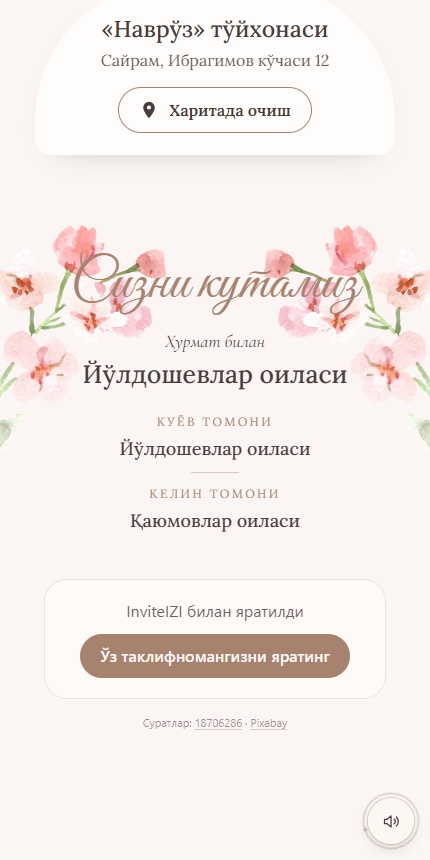
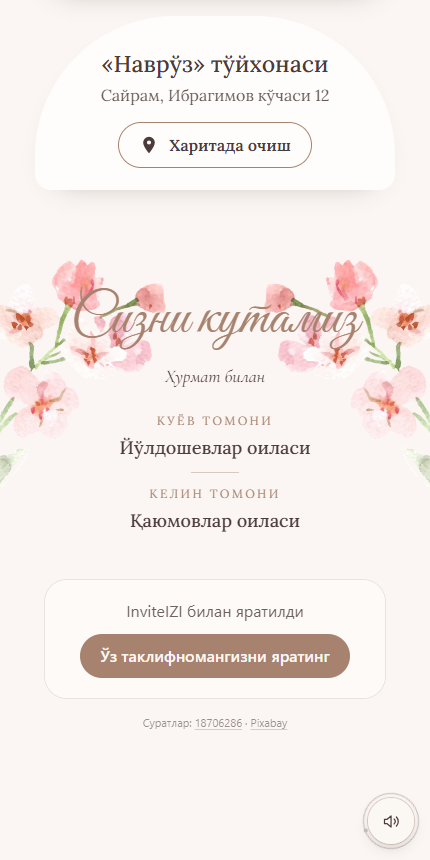
«Гулли рамка»: правки по критику — направление цветов, шторка-кнопка, крупный юбилей, без повтора фамилий

Changed region(s): [[0.0, 0.2419, 1.0, 0.5744], [0.2419, 0.0, 0.786, 0.2116], [0.2721, 0.4837, 0.7256, 0.5442]]

diff --git a/templates/themes/floral/kit.tsx b/templates/themes/floral/kit.tsx
@@ -123,9 +123,10 @@ export function GirihStar({ className }: { className?: string }) {
 }
 
 /** Монограмма «Б | Д» */
-export function Monogram({ a, b, className }: { a: string; b?: string; className?: string }) {
+export function Monogram({ a, b, className, inline = false }: { a: string; b?: string; className?: string; /** внутри кнопки — span вместо p */ inline?: boolean }) {
+  const Tag = inline ? "span" : "p";
   return (
-    <p className={cx(f.mono, className)} aria-hidden>
+    <Tag className={cx(f.mono, className)} aria-hidden>
       <span>{a}</span>
       {b && (
         <>
@@ -133,7 +134,7 @@ export function Monogram({ a, b, className }: { a: string; b?: string; className
           <span>{b}</span>
         </>
       )}
-    </p>
+    </Tag>
   );
 }
 
@@ -174,7 +175,7 @@ export function CardText({ data, inv, className, monogram = true }: { data: Invi
 function WavyProgram({ inv, look }: { inv: Invitation; look: Look }) {
   const list = inv.program;
   return (
-    <ol className={cx(f.wave, look.wave)} data-count={list.length}>
+    <div className={cx(f.wave, look.wave)} data-count={list.length}>
       {list.length > 1 && (
         <svg viewBox="0 0 40 400" preserveAspectRatio="none" className={f.waveLine} aria-hidden data-decor>
           <path d="M20 0C38 50 2 100 20 150s-18 100 0 150 18 70 0 100" fill="none" stroke="currentColor" vectorEffect="non-scaling-stroke" />
@@ -189,7 +190,7 @@ function WavyProgram({ inv, look }: { inv: Invitation; look: Look }) {
           <p className={f.waveMeta}>{e.venueName}</p>
         </Rise>
       ))}
-    </ol>
+    </div>
   );
 }
 
@@ -207,6 +208,8 @@ export type FloralConfig = {
   assets: FloralAsset[];
   look: Look;
   heart?: boolean;
+  /** Шрифт заголовков блоков вместо прописи (юбилей — прямой, читаемый) */
+  titleFont?: string;
   /** Первая композиция: цветы + карточка. on — пора выплывать */
   hero: (on: boolean, inv: Invitation) => ReactNode;
   /** Цветы финала «Сизни кутамиз» */
@@ -239,6 +242,7 @@ export function FloralInvitation({ data, mode, cfg }: { data: InvitationData; mo
   const start = () => {
     if (!inv.started) inv.start();
   };
+  const titleStyle = cfg.titleFont ? { fontFamily: cfg.titleFont } : undefined;
   const on = cfg.opening === "none" ? mounted : inv.started;
   const w = inv.main.when;
   const places = venues(inv);
@@ -260,9 +264,12 @@ export function FloralInvitation({ data, mode, cfg }: { data: InvitationData; mo
         <footer className={cx(f.finale, look.finale)} data-on={on}>
           {cfg.finale}
           <Rise stagger className={f.finaleText}>
-            <Script text={t.floral.wait} className={cx(f.finaleScript, look.finaleScript)} />
+            <Script text={t.floral.wait} className={cx(f.finaleScript, look.finaleScript)} style={titleStyle} />
             <p className={f.finaleLead}>{t.hosts.respect}</p>
-            <p className={cx(f.finaleHosts, look.finaleHosts)}>{data.hosts}</p>
+            {/* хозяева = одна из сторон → не повторяем фамилию дважды */}
+            {!(inv.sides && [inv.sides.groom, inv.sides.bride].includes(data.hosts ?? "")) && (
+              <p className={cx(f.finaleHosts, look.finaleHosts)}>{data.hosts}</p>
+            )}
             {inv.sides && (
               <div className={f.sides}>
                 <div>
@@ -290,7 +297,7 @@ export function FloralInvitation({ data, mode, cfg }: { data: InvitationData; mo
       </Rise>
 
       <section className={cx(f.section, look.dateSec)}>
-        <Script text={t.natural.date} className={cx(f.title, look.title)} />
+        <Script text={t.natural.date} className={cx(f.title, look.title)} style={titleStyle} />
         <HandCalendar date={w} heart={cfg.heart} className={cx(f.cal, look.cal)} />
         <p className={cx(f.dateLine, look.dateLine)}>
           {t.weekdays[w.weekdayIndex]}, {t.date.clock(inv.main.time)}
@@ -301,19 +308,19 @@ export function FloralInvitation({ data, mode, cfg }: { data: InvitationData; mo
         <p className={cx(f.countLead, look.countLead)}>{t.countdown.title[inv.occasion]}</p>
         <Countdown
           startsAt={w.startsAt}
-          look={{ grid: f.countGrid, box: f.countBox, number: cx(f.countNum, look.countNum), label: f.countLabel, today: f.countToday }}
+          look={{ grid: f.countGrid, box: f.countBox, number: cx(f.countNum, look.countNum), label: cx(f.countLabel, look.countLabel), today: f.countToday }}
         />
       </section>
 
       {inv.program.length > 1 && (
         <section className={cx(f.section, look.programSec)}>
-          <Script text={t.natural.program} className={cx(f.title, look.title)} />
+          <Script text={t.natural.program} className={cx(f.title, look.title)} style={titleStyle} />
           <WavyProgram inv={inv} look={look} />
         </section>
       )}
 
       <section className={cx(f.section, look.placeSec)}>
-        <Script text={t.natural.place} className={cx(f.title, look.title)} />
+        <Script text={t.natural.place} className={cx(f.title, look.title)} style={titleStyle} />
         {places.map((e, i) => (
           <Rise key={i} className={cx(f.venue, look.venue)}>
             <h3>{e.venueName}</h3>
@@ -324,20 +331,15 @@ export function FloralInvitation({ data, mode, cfg }: { data: InvitationData; mo
       </section>
 
       {!inv.opened && cfg.opening === "curtain" && (
-        <button
-          type="button"
-          data-open
-          data-started={inv.started}
-          onClick={start}
-          disabled={inv.started}
-          aria-label={t.natural.playHint}
-          className={cx(f.curtain, look.curtain)}
-        >
-          <span className={cx(f.heroWrap, look.heroWrap)} data-on={mounted}>
+        // Вся шторка нажимается; для клавиатуры и чтеца — настоящая кнопка «очинг» (клик всплывает к шторке)
+        <div data-open data-started={inv.started} onClick={start} className={cx(f.curtain, look.curtain)}>
+          <div className={cx(f.heroWrap, look.heroWrap)} data-on={mounted} aria-hidden>
             {cfg.hero(mounted, inv)}
-          </span>
-          <span className={cx(f.tap, look.tap)}>{t.floral.tap}</span>
-        </button>
+          </div>
+          <button type="button" disabled={inv.started} aria-label={t.natural.playHint} className={cx(f.tap, look.tap)}>
+            {t.floral.tap}
+          </button>
+        </div>
       )}
       {!inv.opened && cfg.opening === "custom" && cfg.overlay?.(start, inv.started)}
     </InvitationShell>

diff --git a/templates/themes/bordo-guldasta/bordo-guldasta.module.css b/templates/themes/bordo-guldasta/bordo-guldasta.module.css
@@ -1,7 +1,7 @@
 /* «Бордо гулдаста»: беж + бордо + золото. Плашка с двойной золотой рамкой, крупный прямой шрифт */
 .heroWrap { min-height: 100svh; display: grid; place-items: center; overflow: hidden; padding: 0 0 8svh; }
-.bouquet { left: -26%; top: -7%; width: 92%; rotate: 8deg; }
-.small { right: -12%; bottom: 2%; width: 46%; rotate: -12deg; }
+.bouquet { left: -26%; top: -4%; width: 84%; --r: 8deg; }
+.small { right: -12%; bottom: 2%; width: 46%; --r: -12deg; }
 .card {
   position: relative; z-index: 2; margin-top: 30svh; width: min(84vw, 340px); padding: 30px 22px 28px;
   display: flex; flex-direction: column; align-items: center; text-align: center;
@@ -10,7 +10,7 @@
 }
 .relation { font-family: var(--n-serif); font-style: italic; font-size: 19px; color: var(--f-line); }
 .name { margin-top: 6px; font-family: var(--n-serif); font-size: 38px; font-weight: 500; line-height: 1.15; color: var(--f-ink); overflow-wrap: anywhere; text-wrap: balance; }
-.occasion { margin-top: 10px; font-family: var(--n-serif); font-size: 15px; letter-spacing: .3em; padding-left: .3em; text-transform: uppercase; color: var(--gold); }
+.occasion { margin-top: 10px; font-family: var(--n-serif); font-size: 17px; letter-spacing: .22em; padding-left: .22em; text-transform: uppercase; color: var(--gold); }
 .age { margin-top: 10px; display: flex; align-items: baseline; gap: 8px; color: var(--f-line); }
 .age strong { font-family: var(--n-serif); font-size: 64px; font-weight: 400; line-height: .95; font-variant-numeric: lining-nums; }
 .age span { font-family: var(--n-serif); font-style: italic; font-size: 20px; }
@@ -33,10 +33,12 @@
 .letter p { font-size: 19px; line-height: 1.7; }
 .title { font-family: var(--n-serif); font-size: 40px; font-weight: 500; color: var(--f-line); }
 .dateLine { font-size: 20px; }
-.countLead { font-size: 15px; }
+.countLead { font-size: 17px; letter-spacing: .14em; padding-left: .14em; }
 .countNum { color: var(--f-line); font-size: 46px; }
-.countLabel { font-size: 15px; opacity: .85; }
+.countLabel { font-size: 17px; opacity: .85; }
 .waveTime { color: var(--f-line); }
+.wave h3 { font-size: 17px; letter-spacing: .12em; }
+.wave p { font-size: 18px; }
 .venue { border-radius: 6px; border: 1px solid var(--gold); box-shadow: none; }
 .venue h3 { font-size: 25px; }
 .venue p { font-size: 18px; }
@@ -44,5 +46,9 @@
 .finaleScript { font-family: var(--n-serif); font-size: 42px; font-weight: 500; }
 .finaleHosts { font-size: 27px; }
 .finale { min-height: 280px; }
-.finLeft { left: -16%; top: -10px; width: 52%; rotate: 10deg; }
-.finRight { right: -8%; top: 30px; width: 34%; rotate: -14deg; }
+.finLeft { left: -16%; top: -10px; width: 52%; --r: 10deg; }
+.finRight { right: -8%; top: 30px; width: 34%; --r: -14deg; }
+
+/* стороны (если есть) и подписи — тоже крупно */
+.finale div > div > p { font-size: 17px; letter-spacing: .12em; }
+.finale div > div > h3 { font-size: 21px; }

diff --git a/templates/themes/floral/floral.module.css b/templates/themes/floral/floral.module.css
@@ -5,7 +5,8 @@
 /* ── Цветы с краёв ── */
 .bloom { position: absolute; z-index: 1; pointer-events: none; display: block; }
 .bloomIn { display: block; opacity: 0; }
-.bloomImg { display: block; width: 100%; height: auto; transform-origin: 50% 50%; }
+/* Поворот (--r) — на картинке, а не на обёртке: выплывание и «шторка» идут строго с края, куда указывает data-from */
+.bloomImg { display: block; width: 100%; height: auto; transform-origin: 50% 50%; rotate: var(--r, 0deg); }
 .flip { scale: -1 1; }
 .bloom[data-from="left"] { --dx: -32px; --dy: 0px; }
 .bloom[data-from="right"] { --dx: 32px; --dy: 0px; }
@@ -18,7 +19,7 @@
 [data-on="true"] .bloomIn { animation: bloomIn 1.4s cubic-bezier(.22, 1, .36, 1) var(--d, 0ms) both; }
 [data-on="true"] .bloomImg { animation: breathe var(--b, 8s) ease-in-out calc(var(--d, 0ms) + 1.4s) infinite alternate; }
 @keyframes bloomIn { from { opacity: 0; transform: translate3d(var(--dx), var(--dy), 0); } to { opacity: 1; transform: none; } }
-@keyframes breathe { from { transform: none; } to { transform: scale(1.015) rotate(.6deg); } }
+@keyframes breathe { 0% { transform: none; } 50% { transform: scale(1.015) rotate(.6deg); } 100% { transform: scale(1.008) rotate(-.6deg); } }
 
 /* ── Карточка ── */
 .heroWrap { position: relative; display: block; }
@@ -51,7 +52,7 @@
 .curtain[data-started="true"] .bloom[data-from="right"], .curtain[data-started="true"] .bloom[data-from="tr"], .curtain[data-started="true"] .bloom[data-from="br"] { transform: translate3d(24%, 0, 0); }
 .curtain[data-started="true"] .bloom[data-from="top"] { transform: translate3d(0, -24%, 0); }
 .curtain[data-started="true"] .bloom[data-from="bottom"] { transform: translate3d(0, 24%, 0); }
-.tap { position: absolute; left: 0; right: 0; bottom: calc(5svh + env(safe-area-inset-bottom)); z-index: 3; text-align: center; font-family: var(--n-serif); font-size: 13px; letter-spacing: .28em; text-transform: uppercase; color: var(--f-ink); opacity: 0; animation: tapIn 1s ease 1.6s forwards; padding-left: .28em; }
+.tap { position: absolute; left: 0; right: 0; width: 100%; background: none; border: 0; cursor: pointer; bottom: calc(5svh + env(safe-area-inset-bottom)); z-index: 3; text-align: center; font-family: var(--n-serif); font-size: 13px; letter-spacing: .28em; text-transform: uppercase; color: var(--f-ink); opacity: 0; animation: tapIn 1s ease 1.6s forwards; padding-left: .28em; }
 .tap::after { content: ""; display: block; width: 1px; height: 26px; margin: 10px auto 0; background: currentColor; opacity: .5; animation: tapLine 2.4s ease-in-out 2.6s infinite; transform-origin: top; }
 @keyframes tapIn { to { opacity: .8; } }
 @keyframes tapLine { 0%, 100% { transform: scaleY(.4); } 50% { transform: scaleY(1); } }

diff --git a/templates/themes/muhrli-maktub/muhrli-maktub.module.css b/templates/themes/muhrli-maktub/muhrli-maktub.module.css
@@ -19,8 +19,8 @@
 .sealMono { position: absolute; inset: 0; display: flex; align-items: center; justify-content: center; gap: 6px; font-family: var(--n-serif); font-size: 23px; font-weight: 600; color: color-mix(in srgb, var(--e-wax) 45%, #fff); }
 .sealMono i { display: block; width: 1px; height: 20px; background: currentColor; opacity: .7; }
 .envFlowers { position: absolute; inset: 0; z-index: 6; pointer-events: none; }
-.envTl { left: -18%; top: -6%; width: 36%; rotate: 150deg; }
-.envBr { right: -14%; bottom: -3%; width: 46%; rotate: -30deg; }
+.envTl { left: -18%; top: -6%; width: 36%; --r: 150deg; }
+.envBr { right: -14%; bottom: -3%; width: 46%; --r: -30deg; }
 .envTap { position: absolute; left: 0; right: 0; bottom: calc(9svh + env(safe-area-inset-bottom)); z-index: 7; text-align: center; font-family: var(--n-serif); font-size: 13px; letter-spacing: .28em; padding-left: .28em; text-transform: uppercase; color: #fffaf6; transition: opacity .3s ease; }
 .envelope[data-started="true"] .seal { transform: scale(1.18); opacity: 0; }
 .envelope[data-started="true"] .flapNames, .envelope[data-started="true"] .envTap { opacity: 0; }
@@ -30,8 +30,8 @@
 
 /* ── Страница ── */
 .heroWrap { min-height: 100svh; display: grid; place-items: center; overflow: hidden; }
-.heroLeft { left: -18%; top: 12%; width: 50%; rotate: 18deg; }
-.heroRight { right: -18%; bottom: 8%; width: 50%; rotate: -164deg; }
+.heroLeft { left: -18%; top: 12%; width: 50%; --r: 18deg; }
+.heroRight { right: -18%; bottom: 8%; width: 50%; --r: -164deg; }
 .card { position: relative; z-index: 2; width: min(72vw, 290px); aspect-ratio: .74; display: grid; place-items: center; padding-top: 18%; --f-name: 44px; }
 .card::before { content: ""; position: absolute; inset: 1.5%; border-radius: 48% 48% 0 0 / 38% 38% 0 0; background: var(--f-card); box-shadow: 0 18px 46px -30px rgba(75, 59, 58, .5); }
 .card > div { padding: 0 26px; }
@@ -41,5 +41,5 @@
 .count { margin: 56px 24px 0; padding: 26px 0 28px; border-radius: 120px 120px 18px 18px; background: var(--f-card); }
 .venue { border-radius: 140px 140px 16px 16px; padding-top: 34px; }
 .finale { min-height: 260px; }
-.finLeft { left: -10%; top: 0; width: 40%; rotate: 24deg; }
-.finRight { right: -10%; top: 0; width: 40%; rotate: -24deg; }
+.finLeft { left: -10%; top: 0; width: 40%; --r: 24deg; }
+.finRight { right: -10%; top: 0; width: 40%; --r: -24deg; }

diff --git a/templates/themes/lola-bodom/lola-bodom.module.css b/templates/themes/lola-bodom/lola-bodom.module.css
@@ -1,9 +1,9 @@
 /* «Лола ва бодом»: белое с шалфеем, тюльпаны снизу, ветка бодома сверху, арка-пештоқ */
-.heroWrap img, .finale img { filter: saturate(.78) brightness(1.03); }
+.heroWrap img { filter: saturate(.62) brightness(1.05); }
 .heroWrap { min-height: 100svh; display: grid; place-items: center; overflow: hidden; }
-.branch { right: -10%; top: -10%; width: 52%; rotate: 172deg; }
-.tulipLeft { left: -12%; bottom: -12%; width: 50%; rotate: 14deg; }
-.tulipRight { right: -16%; bottom: -14%; width: 44%; rotate: -10deg; }
+.branch { right: -10%; top: -10%; width: 52%; --r: 172deg; }
+.tulipLeft { left: -12%; bottom: -12%; width: 50%; --r: 14deg; }
+.tulipRight { right: -16%; bottom: -14%; width: 44%; --r: -10deg; }
 .card { position: relative; z-index: 2; width: min(74vw, 296px); aspect-ratio: .76; display: grid; place-items: center; padding-top: 16%; --f-name: 40px; }
 .card::after { content: ""; position: absolute; inset: 0; z-index: 0; background: #fff; clip-path: polygon(4.0% 96.0%, 4.0% 43.0%, 4.8% 37.3%, 7.2% 32.0%, 11.2% 26.9%, 16.5% 22.1%, 23.1% 17.6%, 31.0% 13.2%, 40.0% 9.0%, 50.0% 5.0%, 60.0% 9.0%, 69.0% 13.2%, 76.9% 17.6%, 83.5% 22.1%, 88.8% 26.9%, 92.8% 32.0%, 95.2% 37.3%, 96.0% 43.0%, 96.0% 96.0%); opacity: .94; }
 .card > div { z-index: 2; padding: 0 26px; }
@@ -17,5 +17,6 @@
 .countNum { color: var(--f-line); font-weight: 400; }
 .venue { border-radius: 18px; border-top: 3px solid color-mix(in srgb, var(--f-line) 55%, transparent); }
 .finale { min-height: 300px; }
-.finale .finTulip { left: -6%; top: 10px; width: 40%; rotate: 8deg; }
-.finale .finBranch { right: -8%; top: -20px; width: 42%; rotate: -20deg; }
+.finale img { filter: saturate(.55) brightness(1.06); opacity: .85; }
+.finale .finTulip { left: -22%; top: auto; bottom: -40px; width: 38%; --r: 8deg; }
+.finale .finBranch { right: -20%; top: -40px; width: 36%; --r: -20deg; }

diff --git a/templates/themes/girih-barg/girih-barg.module.css b/templates/themes/girih-barg/girih-barg.module.css
@@ -1,7 +1,7 @@
 /* «Гиреҳ барг»: холодное молоко, шалфей, приглушённое золото. Карточка — шестиугольник; блоки по левому краю */
 .heroWrap { min-height: 100svh; display: grid; place-items: center; overflow: hidden; }
-.tl { left: -30%; top: -7%; width: 118%; rotate: 156deg; }
-.br { right: -42%; bottom: -12%; width: 104%; rotate: -24deg; }
+.tl { left: -30%; top: -7%; width: 118%; --r: 156deg; }
+.br { right: -22%; bottom: -4%; width: 90%; --r: -24deg; }
 .card { position: relative; z-index: 2; width: min(76vw, 300px); aspect-ratio: .87; display: grid; place-items: center; --f-name: 42px; }
 .card::before { content: ""; position: absolute; inset: 1.5%; z-index: 0; background: #fff; clip-path: polygon(50% 0, 100% 25%, 100% 75%, 50% 100%, 0 75%, 0 25%); box-shadow: none; opacity: .92; }
 .card > div { padding: 0 34px; }
@@ -20,4 +20,4 @@
 .count { margin: 64px 28px 0; padding: 26px 0; border-top: 1px solid color-mix(in srgb, var(--f-line) 45%, transparent); border-bottom: 1px solid color-mix(in srgb, var(--f-line) 45%, transparent); }
 .venue { margin-left: 0; border-radius: 4px; border-left: 2px solid var(--f-line); text-align: left; box-shadow: none; background: #fff; }
 .map { margin-left: 0; }
-.finale .finaleLeaves { position: relative; display: block; width: 120%; margin: -10px -10% 0; rotate: 180deg; }
+.finale .finaleLeaves { position: relative; display: block; width: 120%; margin: -10px -10% 0; --r: 180deg; }

diff --git a/templates/themes/tonggi-piyola/tonggi-piyola.module.css b/templates/themes/tonggi-piyola/tonggi-piyola.module.css
@@ -1,8 +1,8 @@
 /* «Тонгги пиёла»: утро, тёплый крем, кобальт пахта-нусхи. Овал по центру, крупное «6:00» */
 .heroWrap { min-height: 100svh; display: grid; place-items: center; overflow: hidden; }
-.tl { left: -22%; top: -8%; width: 70%; rotate: 140deg; }
-.tr { right: -20%; top: -4%; width: 52%; rotate: -150deg; }
-.br { right: -30%; bottom: -16%; width: 60%; rotate: -30deg; }
+.tl { left: -22%; top: -8%; width: 70%; --r: 140deg; }
+.tr { right: -20%; top: -4%; width: 52%; --r: -150deg; }
+.br { right: -30%; bottom: -16%; width: 60%; --r: -30deg; }
 .card { position: relative; z-index: 2; width: min(80vw, 330px); aspect-ratio: .72; display: grid; place-items: center; }
 .card::before { content: ""; position: absolute; inset: 1.5%; border-radius: 50%; background: radial-gradient(ellipse at 50% 40%, #fffdf8 55%, #fbf3e6); box-shadow: 0 18px 46px -32px rgba(61, 49, 40, .5); }
 .cardText { position: relative; z-index: 2; display: flex; flex-direction: column; align-items: center; text-align: center; padding: 0 28px; }
@@ -42,5 +42,5 @@
 .countNum { color: var(--cobalt); }
 .venue { border-radius: 22px; border: 1px solid #ecdfcc; box-shadow: none; }
 .finale { padding-top: 24px; }
-.finLeft { left: -14%; top: 0; width: 46%; rotate: 30deg; }
+.finLeft { left: -14%; top: 0; width: 46%; --r: 30deg; }
 .finTea { position: relative; z-index: 2; display: block; width: 170px; margin: 0 auto; }

diff --git a/templates/themes/gul-doira/gul-doira.module.css b/templates/themes/gul-doira/gul-doira.module.css
@@ -1,9 +1,9 @@
 /* «Гул доира»: тёплое молоко, приглушённое золото, розово-пудровые цветы по четырём углам */
 .heroWrap { min-height: 100svh; display: grid; place-items: center; overflow: hidden; }
-.tl { left: -26%; top: -6%; width: 92%; rotate: 128deg; }
-.tr { right: -38%; top: 9%; width: 86%; rotate: -112deg; }
-.bl { left: -36%; bottom: 10%; width: 84%; rotate: 70deg; }
-.br { right: -24%; bottom: -5%; width: 92%; rotate: -50deg; }
+.tl { left: -26%; top: -6%; width: 92%; --r: 128deg; }
+.tr { right: -38%; top: 9%; width: 86%; --r: -112deg; }
+.bl { left: -36%; bottom: 10%; width: 84%; --r: 70deg; }
+.br { right: -24%; bottom: -5%; width: 92%; --r: -50deg; }
 .card { position: relative; z-index: 2; width: min(78vw, 318px); aspect-ratio: 1; display: grid; place-items: center; border-radius: 50%; background: radial-gradient(circle, #fffdf9 62%, rgba(255, 253, 249, .9)); box-shadow: 0 18px 50px -30px rgba(74, 58, 54, .45); --f-name: 44px; }
 .card > div { padding: 0 30px; }
 

diff --git a/templates/themes/muhrli-maktub/Design.tsx b/templates/themes/muhrli-maktub/Design.tsx
@@ -72,7 +72,7 @@ export default function MuhrliMaktub({ data, mode }: TemplateProps) {
             className={s.envelope}
           >
             <span className={s.letterCard}>
-              <Monogram a={a} b={b} className={s.letterMono} />
+              <Monogram a={a} b={b} className={s.letterMono} inline />
             </span>
             <span className={s.pocket} />
             <span className={s.flapWrap}>

diff --git a/templates/themes/bordo-guldasta/Design.tsx b/templates/themes/bordo-guldasta/Design.tsx
@@ -30,6 +30,7 @@ export default function BordoGuldasta({ data, mode }: TemplateProps) {
       cfg={{
         melody,
         opening: "none",
+        titleFont: "var(--n-serif)",
         vars,
         pageColor: "#f7efe4",
         backdrop: "bg-[#ebdfd0]",

diff --git a/docs/reviews/floral/README.md b/docs/reviews/floral/README.md
@@ -1,0 +1,20 @@
+# «Гулли рамка» 117–122 — проверка (03.11.2026)
+
+Кадры: `<id>-430-1-first / 2-middle / 3-end`, `<id>-360-1-first`; открытие — `gul-doira-430-0-opening` (шторка), `muhrli-maktub-430-0-opening` и `-0-open-700ms` (конверт).
+check-template у всех шести: «проблем не найдено» (375×812 и 360×640). Горизонтальной прокрутки и ошибок консоли нет на 360 и 430.
+
+## Агент-критик — что исправлено
+1. Цветы выплывали не с того края (поворот стоял на обёртке и крутил направление) → поворот перенесён на картинку (`--r`), «шторка» раздвигает цветы строго к краям.
+2. «Дыхание» было только 0→+0,6° → теперь ±0,6°.
+3. Юбилей 122: заголовки блоков были прописью (шрифт задан в самом компоненте) → опция `titleFont`, прямой шрифт; подписи счётчика, программы и сторон — от 17 px.
+4. Программа: `<ol>` без `<li>` → обычный блок.
+5. Шторка была `<button>` с заголовками внутри → нажимается вся шторка, а для клавиатуры — настоящая кнопка «Таклифномани очинг»; копия карточки скрыта от чтеца экрана. В конверте монограмма — `span`.
+6. Фамилия повторялась в финале (хозяева = сторона жениха) → повтор не показываем.
+7. 121: тюльпаны в финале лезли под «Сизни кутамиз» и были слишком яркими → отодвинуты к краям, бледнее.
+8. 118: нижний эвкалипт почти весь уходил за экран → подвинут.
+
+## Что оставлено и почему
+- Монограммы нет у 120, 121, 122 — там один человек (сын, внук, мама); одна буква выглядела пусто. У 120 вместо неё чайник и пиёла.
+- `inert` на странице под шторкой не ставили — шторка закрывает экран целиком, страница под ней с прозрачностью 0; оставлено на общий пересмотр InvitationShell.
+- Очень длинные имена (14+ букв) в круге 117 и на клапане 119 переносятся по слогам, а не вылезают; подгонку размера по длине — следующим шагом, если владелец увидит такие заказы.
+- Ответ гостей (RSVP) на демо не виден: он появляется только у оплаченного заказа (так у всех дизайнов).

diff --git a/ПРОГРЕСС.md b/ПРОГРЕСС.md
@@ -2,8 +2,8 @@
 - Фаза 1 (готово): 48 дизайнов скрыты, код и БД-строки остаются. SQL `supabase/release/hide-old-designs.sql` ждёт «да».
 - Фазы 2–3 (готово): 117 Гул доира, 118 Гиреҳ барг, 119 Муҳрли мактуб (конверт), 120 Тонгги пиёла (наҳорги ош), 121 Лола ва бодом (суннат), 122 Бордо гулдаста (юбилей, Оддий). В каталоге теперь 18.
 - **SQL `supabase/release/natural-six-templates.sql` (117–122) ждёт «да» владельца — применять после деплоя кода.**
-- Фаза 4: tsc, eslint, next build — чисто; тесты 684 + 2 падают только по таймауту 5 с при общем прогоне (по отдельности проходят). check-template у всех 6 — «проблем не найдено». Скриншоты — docs/reviews/floral.
-- Дальше: агент-критик и правки по нему.
+- Фаза 4 (готово): tsc, eslint (0 ошибок), тесты 686/686, next build — чисто. check-template у всех 6 — «проблем не найдено». Скриншоты и разбор критика — docs/reviews/floral.
+- **Ждут «да» владельца:** `hide-old-designs.sql`, `natural-six-templates.sql` (после деплоя), раньше — `natural-four-templates.sql`. PR #8 не слит.
 
 ## 02.11.2026 — натуральные пилоты (ветка feature/natural-pilots, папка inviteizi-natural)
 - Фаза 0: изучена система шаблонов (registry, InvitationShell, блоки). Ключи UNSPLASH и PIXABAY на месте (значения не выводились). Добавлены шрифты Great Vibes и Bad Script (OFL).
